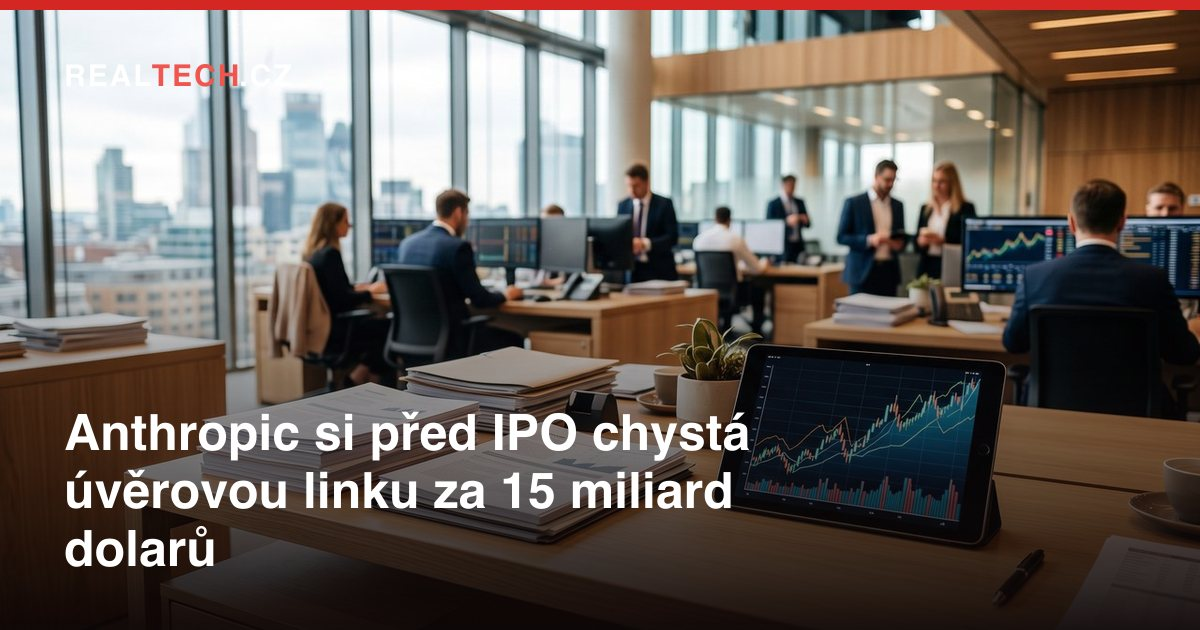
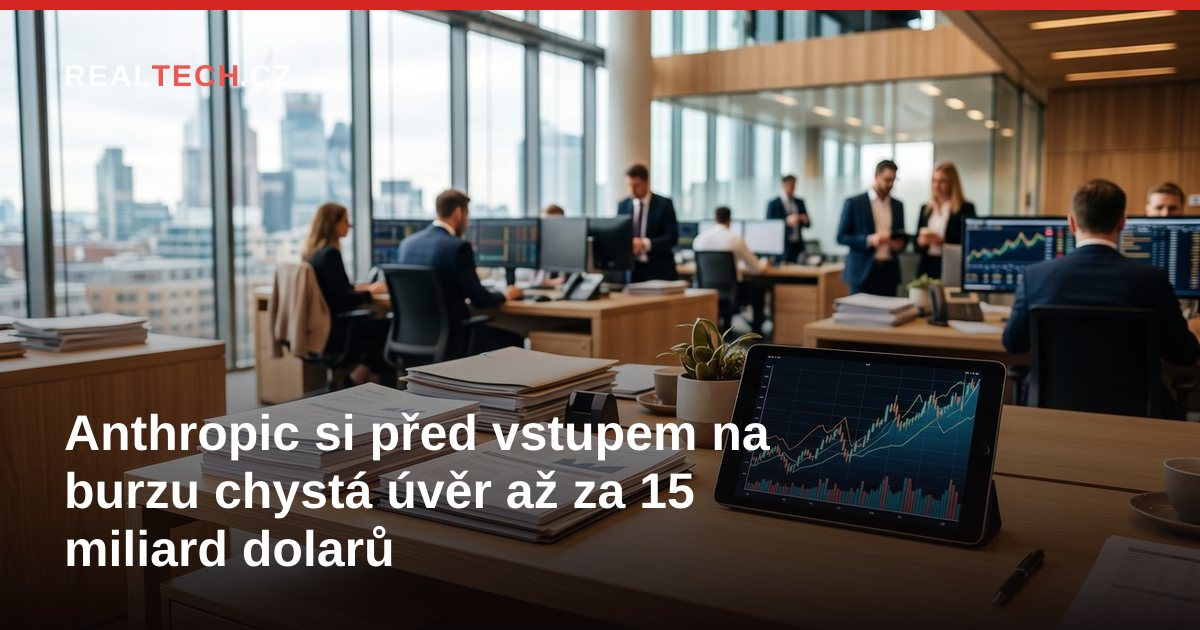
Čitelnější nadpisy: OpenAI agenti, Starship F14, Anthropic úvěr (#418)
* Čitelnější nadpisy a popisky: OpenAI agenti, Starship F14, Anthropic úvěr

Tři nejnovější články dostávají srozumitelnější české titulky bez
oborového žargonu (stážista, orbita/NET/FCC, IPO/S-1). Slugy, texty,
data, audio, obrázky ani xPosts se nemění.

* OG obrázky: přegenerovat pro tři články s novými titulky

scripts/generate-og.mjs otiskuje titulek do .sha256, takže po změně
titulků se musí commitnout nové deriváty, jinak Z1072 nechá
public/images/og špinavé (viz PR #382).

---------

diff --git a/src/content/clanky/openai-research-intern-zari-2026.md b/src/content/clanky/openai-research-intern-zari-2026.md
@@ -1,6 +1,6 @@
 ---
-title: "OpenAI hlásí, že má „automatizovaného výzkumného stážistu“. Agenti prý odvedou 3,1 dne na jeden lidský"
-description: "Podle vlastních měření OpenAI splnil cíl, který Sam Altman vyhlásil loni v říjnu. Medián výzkumníka utratí za agenty přes 600 dolarů denně, špička přes 7 000. Víc než polovina delších úkolů ale pořád potřebuje lidský zásah."
+title: "OpenAI: AI agenti teď udělají 3,1 dne práce za jeden den člověka"
+description: "Podle vlastních měření OpenAI splnil cíl, který Sam Altman vyhlásil loni v říjnu. Medián výzkumníka utratí za AI agenty přes 600 dolarů denně, špička přes 7 000. Víc než polovina delších úkolů ale pořád potřebuje lidský zásah."
 category: "AI Report"
 date: "2026-09-07T11:15:00+02:00"
 image: "/images/clanky/openai-research-intern-zari-2026.jpg"

diff --git a/src/content/clanky/starship-flight-14-prvni-orbita.md b/src/content/clanky/starship-flight-14-prvni-orbita.md
@@ -1,6 +1,6 @@
 ---
-title: "Starship Flight 14 míří na první orbitu. NET 15. září u FCC, chytání lodi až za měsíce"
-description: "Žádosti SpaceX u FCC pro čtrnáctý let Starship počítají s orbitálním druhým stupněm a s oknem od 15. září 2026. Je to povolení pro vysílačky, ne pro start. Licenci k letu drží FAA a ta ji zatím nezveřejnila."
+title: "Starship Flight 14 míří na první oběžnou dráhu. Okno od 15. září, chytání lodi až za měsíce"
+description: "Žádosti SpaceX u americké FCC pro čtrnáctý let Starship počítají s druhým stupněm na oběžné dráze a s oknem od 15. září 2026. Je to povolení pro vysílačky, ne pro start. Licenci k letu drží FAA a ta ji zatím nezveřejnila."
 category: "Vesmír"
 date: "2026-09-06T10:40:00+02:00"
 zprava: true

diff --git a/src/content/clanky/anthropic-uver-15-miliard-pred-ipo.md b/src/content/clanky/anthropic-uver-15-miliard-pred-ipo.md
@@ -1,6 +1,6 @@
 ---
-title: "Anthropic si před IPO chystá úvěrovou linku za 15 miliard dolarů"
-description: "Bloomberg: úvěrová linka z 2,5 na 15 miliard dolarů. Lead Morgan Stanley, s GS, JPM a Citi. Firma i banky odmítly komentovat. Důvěrný S-1 od června."
+title: "Anthropic si před vstupem na burzu chystá úvěr až za 15 miliard dolarů"
+description: "Bloomberg: úvěrová linka z 2,5 na 15 miliard dolarů. Lead Morgan Stanley, s GS, JPM a Citi. Firma i banky odmítly komentovat. Důvěrný prospekt (S-1) od června."
 category: "AI Report"
 date: "2026-09-05T14:00:00+02:00"
 image: "/images/clanky/anthropic-uver-15-miliard-pred-ipo.jpg"
